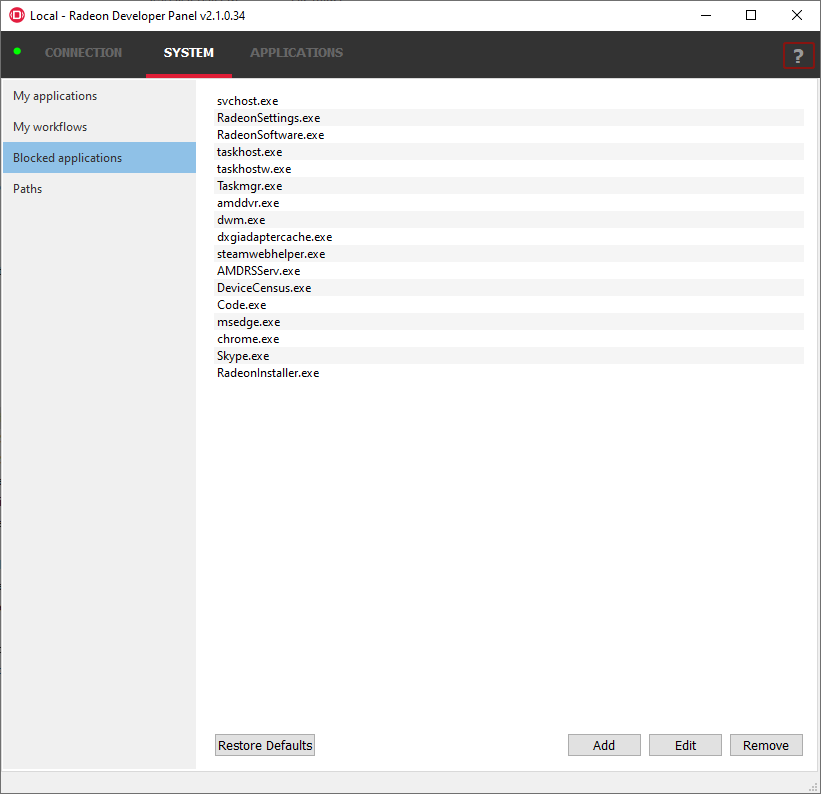
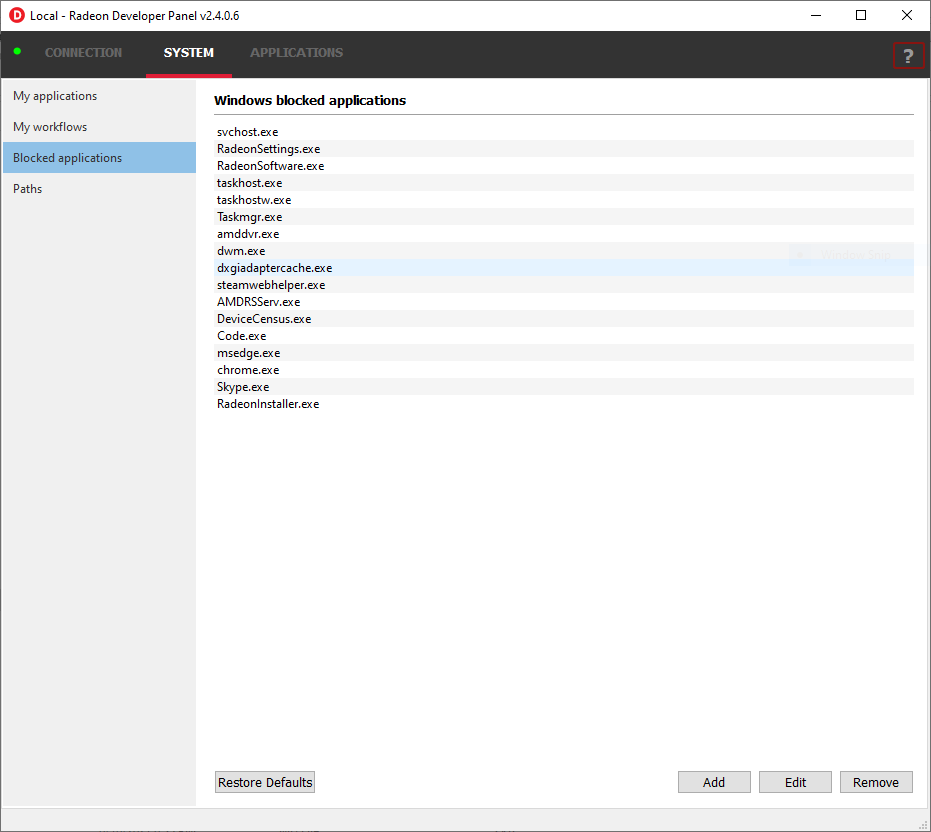
Update documentation for version 2.4 release (#10)
This commit updates the documentation files for the 2.4 release

diff --git a/docs/source/conf.py b/docs/source/conf.py
@@ -54,9 +54,9 @@ author = u'AMD Developer Tools'
 # built documents.
 #
 # The short X.Y version.
-version = u'2.3.0'
+version = u'2.4.0'
 # The full version, including alpha/beta/rc tags.
-release = u'2.3.0'
+release = u'2.4.0'
 
 # The language for content autogenerated by Sphinx. Refer to documentation
 # for a list of supported languages.

diff --git a/docs/source/index.rst b/docs/source/index.rst
@@ -245,6 +245,9 @@ The following are the configurable options for profiling
    * Dispatch Range allows for setting the start and stop dispatch indices to use during automatic profile capture
    * Dispatch Count specifies the number of dispatches to include in the profile capture
 
+**NOTE**
+   To reduce the chance of truncated profile data, OpenCL profiling is limited to 50 dispatches
+
 .. image:: media/Workflow_Profiling_Config_OpenCL.png
 
 
@@ -270,9 +273,10 @@ show up in the list of target applications. The **Profiling** feature also requi
 that only one application is started while using the feature so blocking applications, such as launchers
 that run before another application starts, can be useful.
 
-The panel has a default list of applications that are blocked. Applications
-can be added or removed from the list by selecting the **Blocked applications**
-subtab on the **System** tab then clicking one of the buttons below the list
+The panel maintains a list of default applications that are blocked on either Windows or Linux.
+This list can be viewed from the **Blocked applications** subtab on the **System** tab
+which will appear once a local or remote connection has been established.
+Applications can be added or removed from the list by clicking one of the buttons below the list
 of process names. When editing or removing entries, first select the process name
 from the list then click the edit or remove button. The list can also be restored
 to the default set of blocked applications. Right clicking on a process name in the
